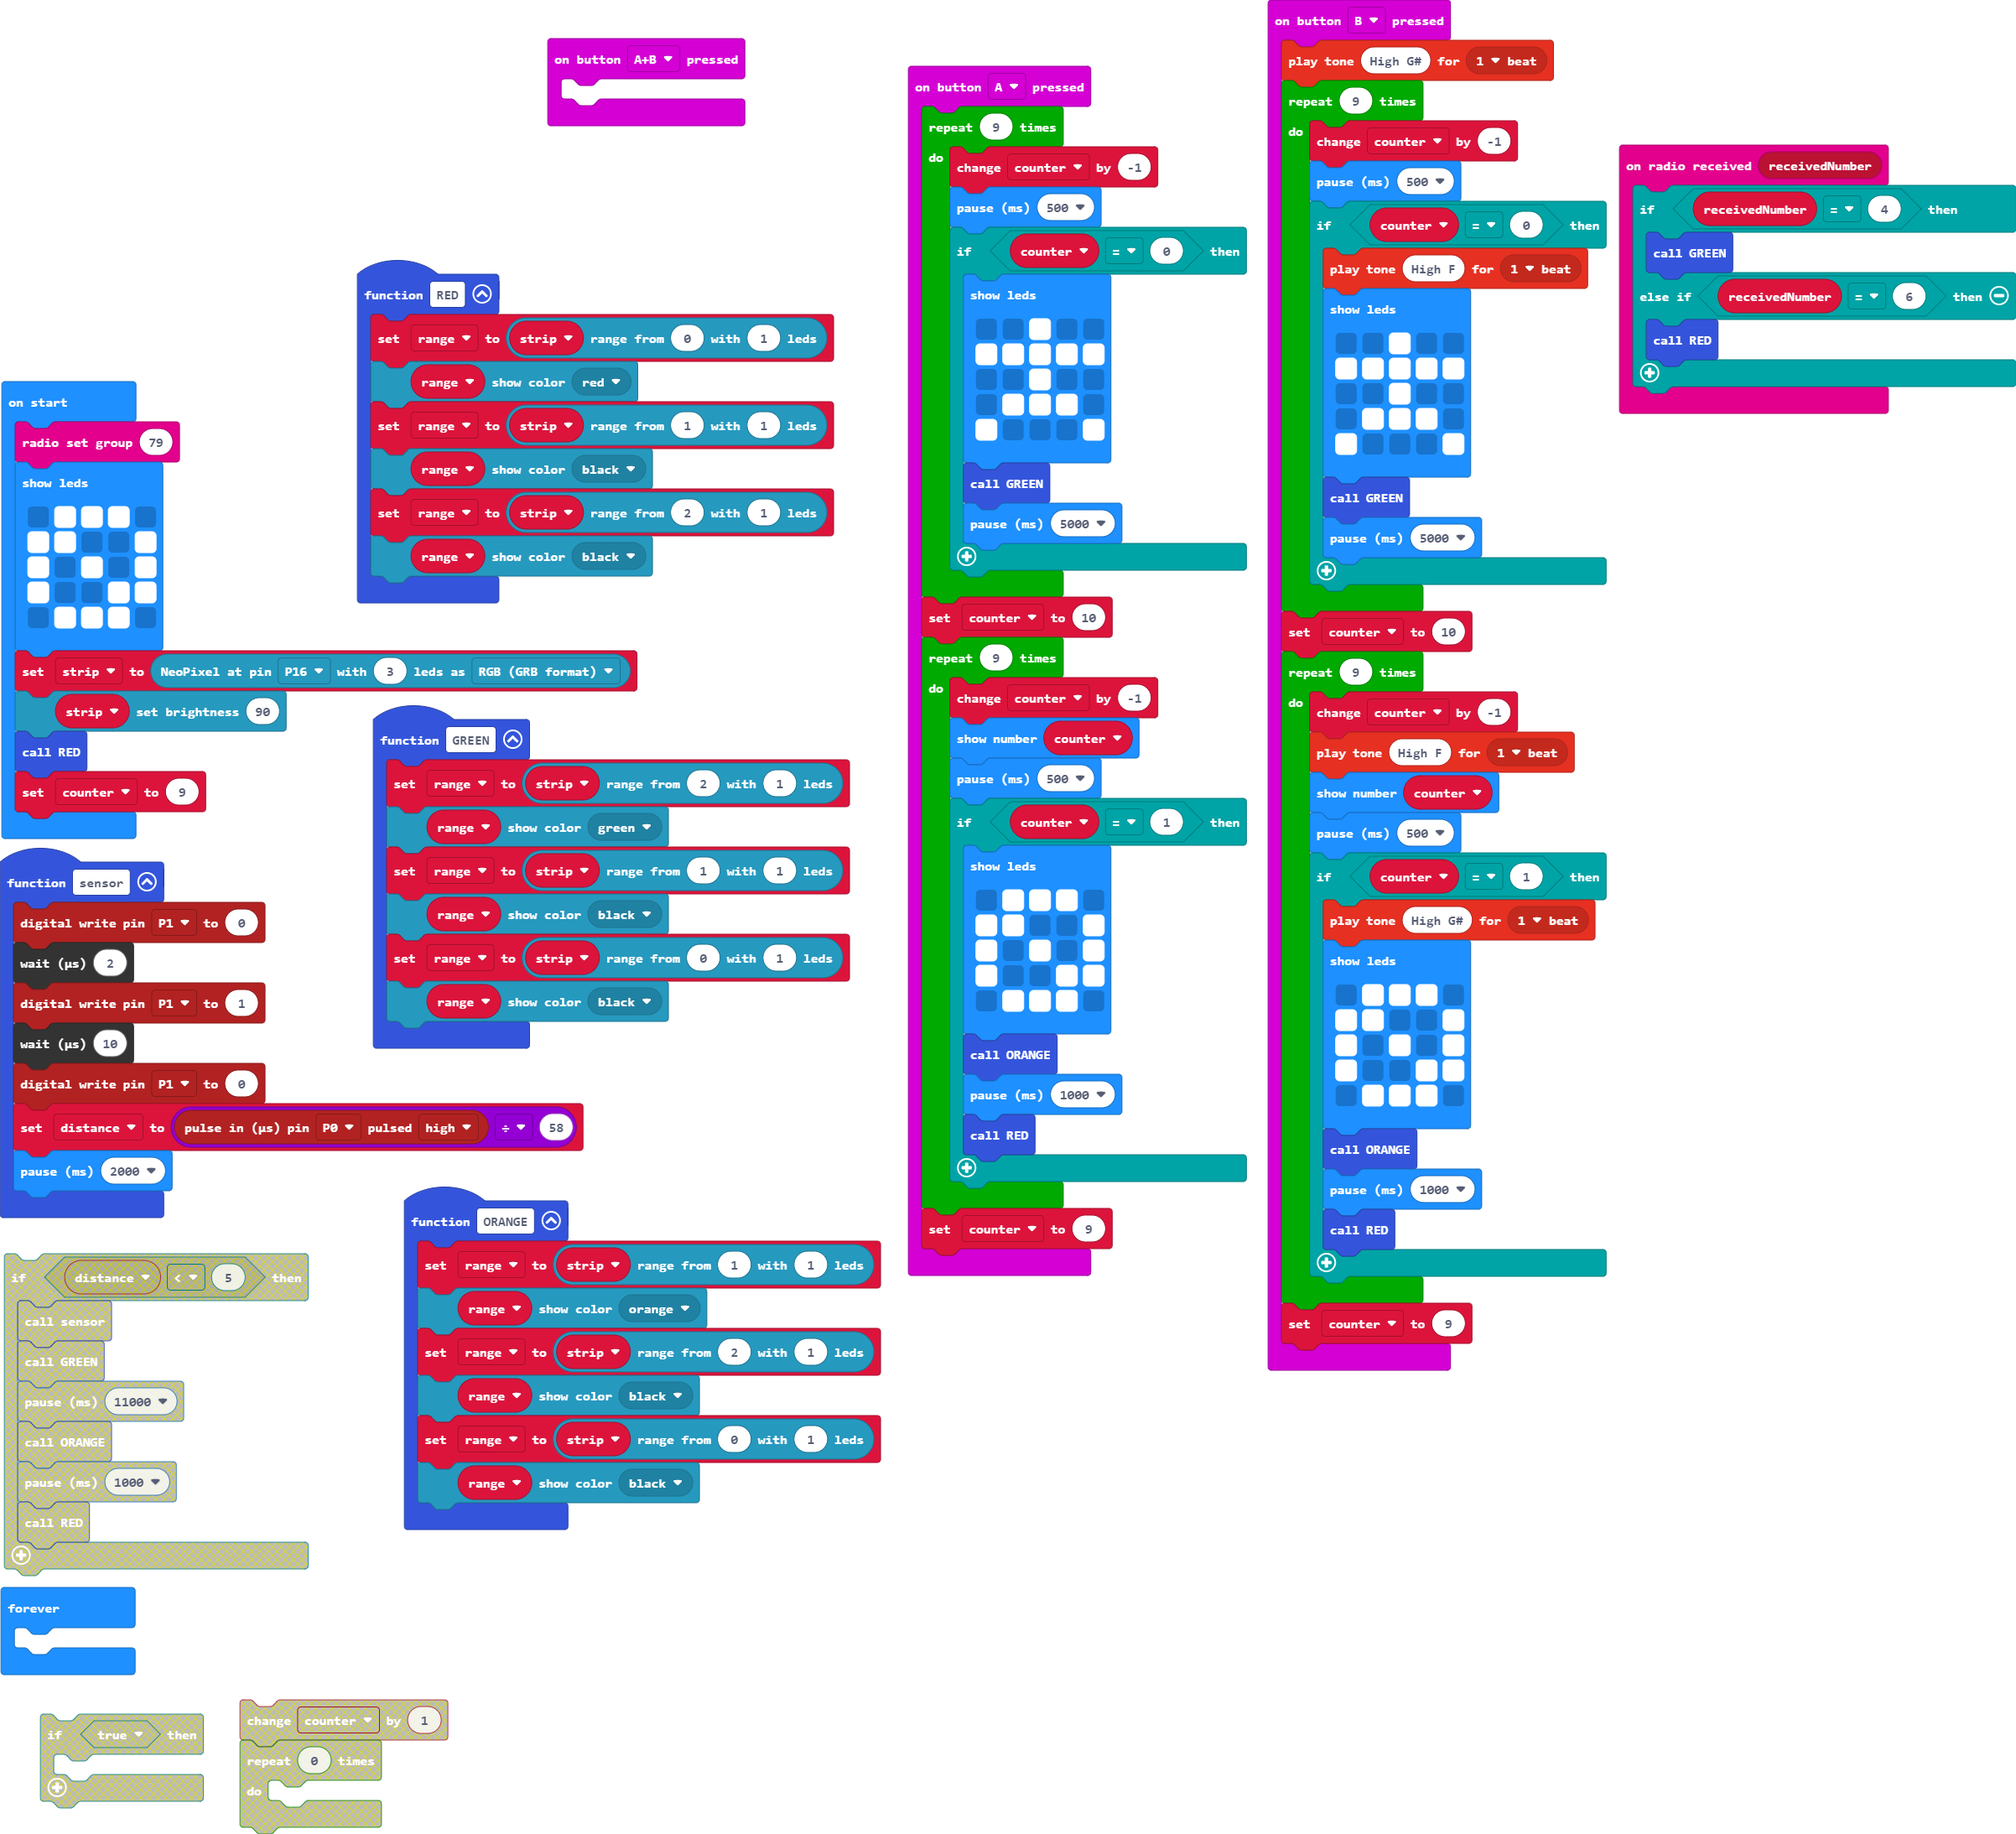
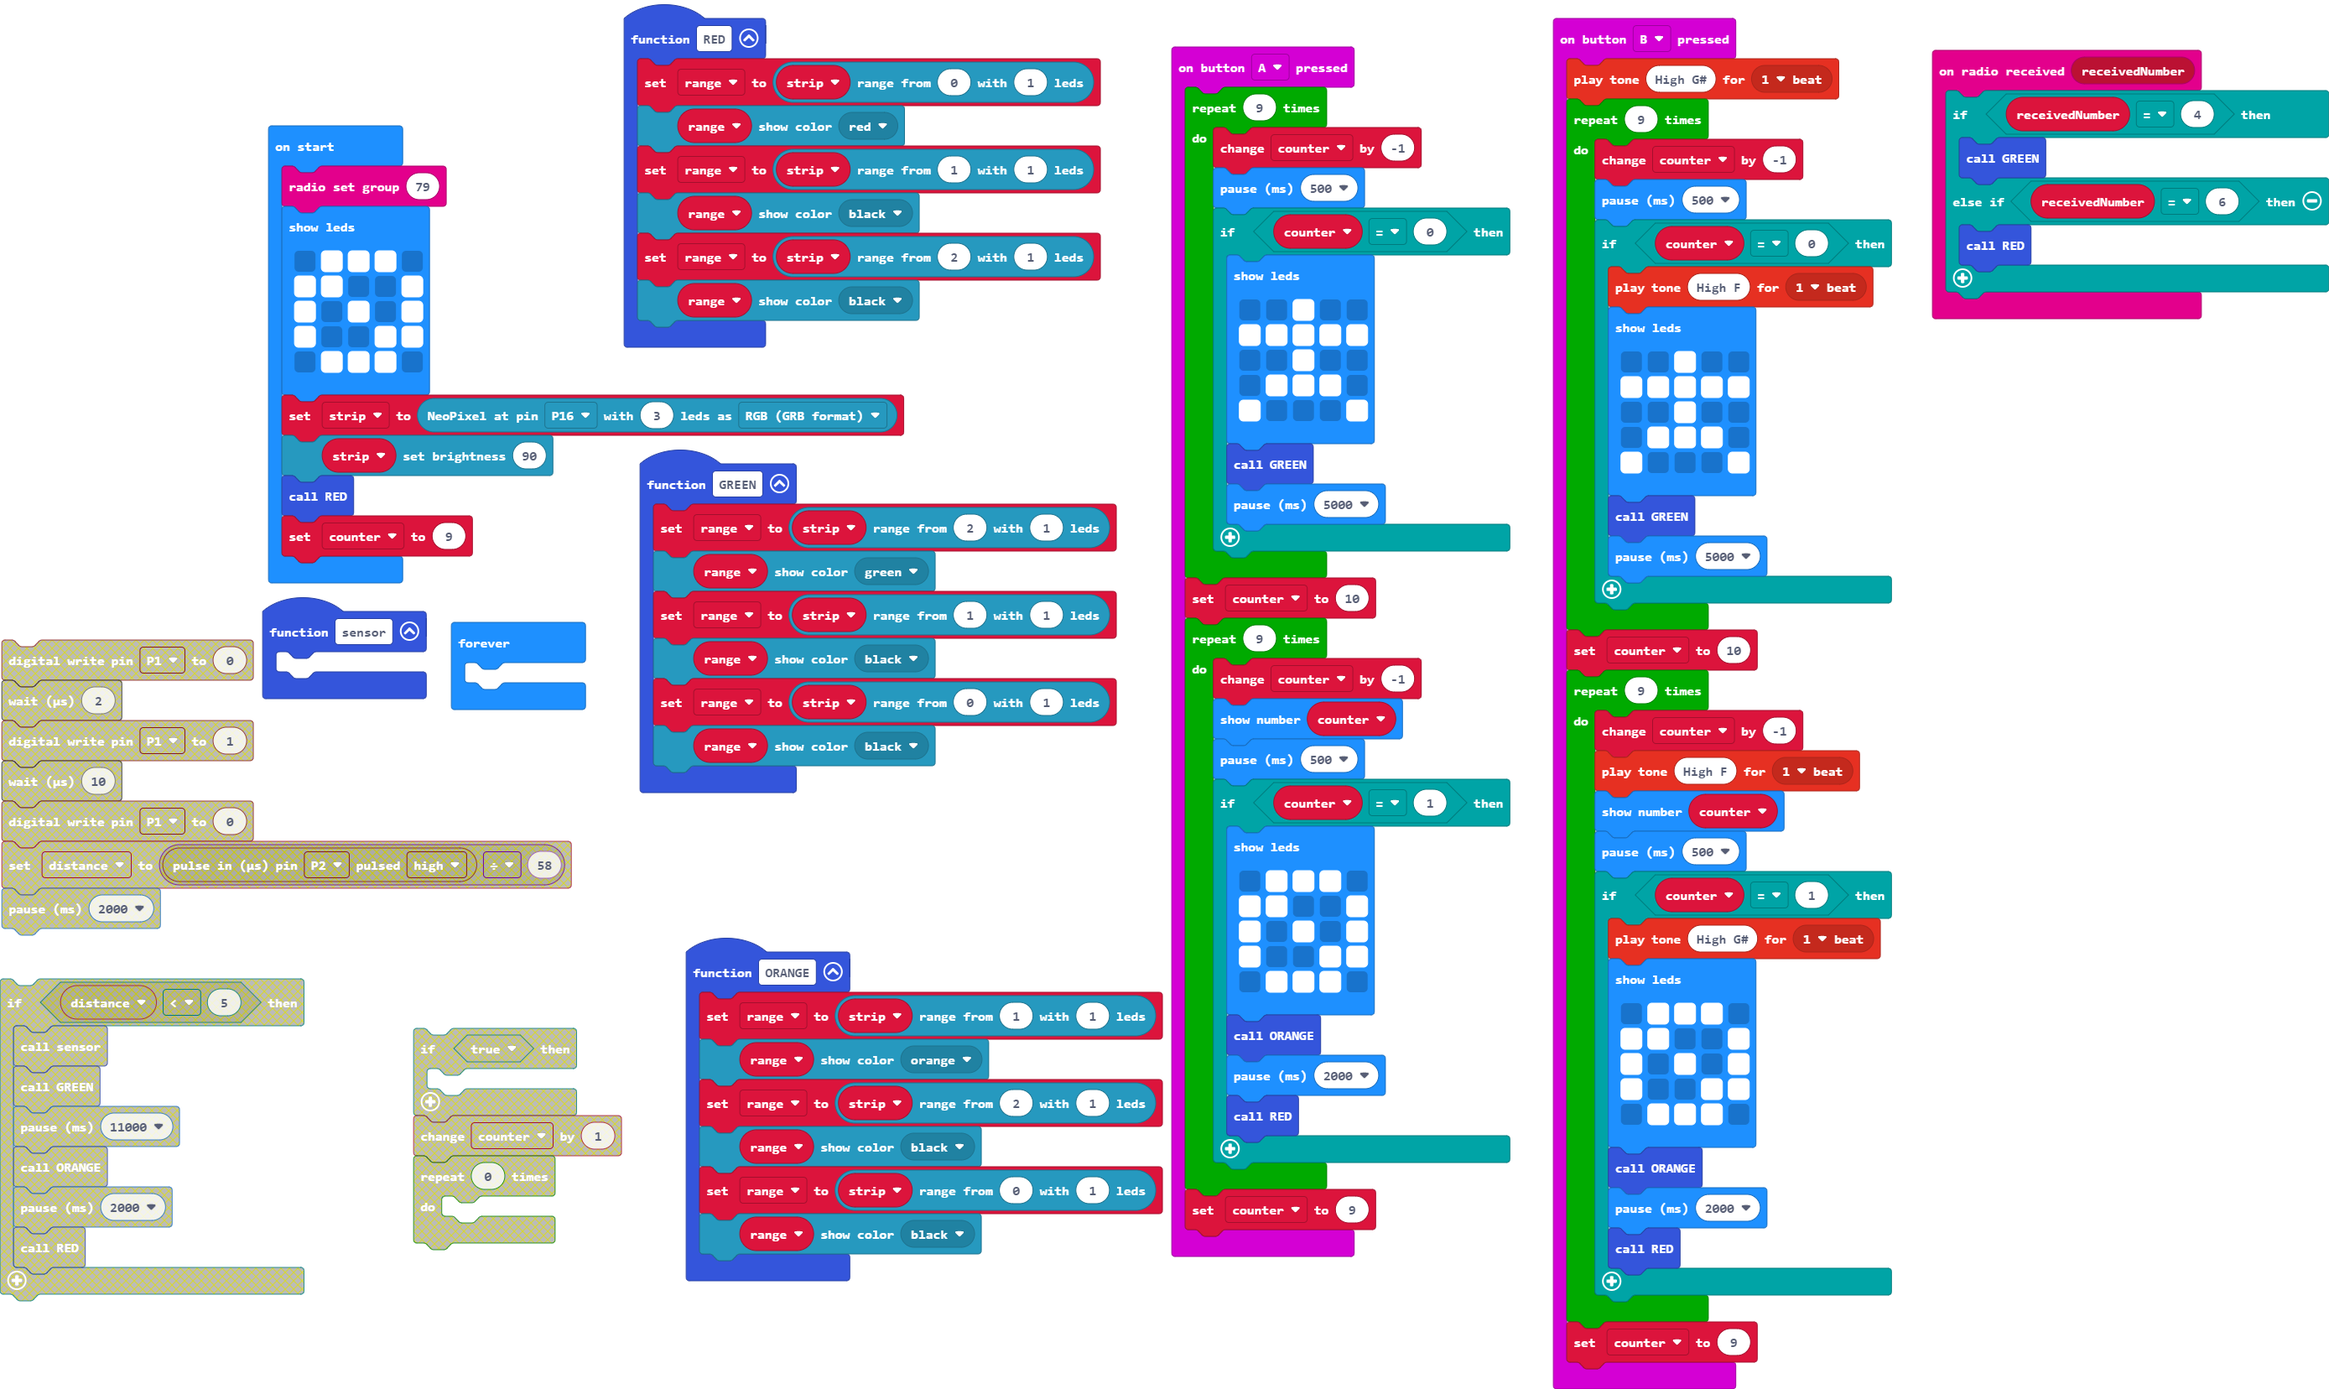
Update main.blocks, main.ts

diff --git a/main.ts b/main.ts
@@ -35,7 +35,7 @@ input.onButtonPressed(Button.A, function () {
                 . # # # .
                 `)
             ORANGE()
-            basic.pause(1000)
+            basic.pause(2000)
             RED()
         }
     }
@@ -57,9 +57,6 @@ function GREEN () {
     range = strip.range(0, 1)
     range.showColor(neopixel.colors(NeoPixelColors.Black))
 }
-input.onButtonPressed(Button.AB, function () {
-	
-})
 input.onButtonPressed(Button.B, function () {
     music.playTone(831, music.beat(BeatFraction.Whole))
     for (let index = 0; index < 9; index++) {
@@ -94,20 +91,14 @@ input.onButtonPressed(Button.B, function () {
                 . # # # .
                 `)
             ORANGE()
-            basic.pause(1000)
+            basic.pause(2000)
             RED()
         }
     }
     counter = 9
 })
 function sensor () {
-    pins.digitalWritePin(DigitalPin.P1, 0)
-    control.waitMicros(2)
-    pins.digitalWritePin(DigitalPin.P1, 1)
-    control.waitMicros(10)
-    pins.digitalWritePin(DigitalPin.P1, 0)
-    distance = pins.pulseIn(DigitalPin.P0, PulseValue.High) / 58
-    basic.pause(2000)
+	
 }
 function ORANGE () {
     range = strip.range(1, 1)
@@ -117,7 +108,6 @@ function ORANGE () {
     range = strip.range(0, 1)
     range.showColor(neopixel.colors(NeoPixelColors.Black))
 }
-let distance = 0
 let range: neopixel.Strip = null
 let counter = 0
 let strip: neopixel.Strip = null
